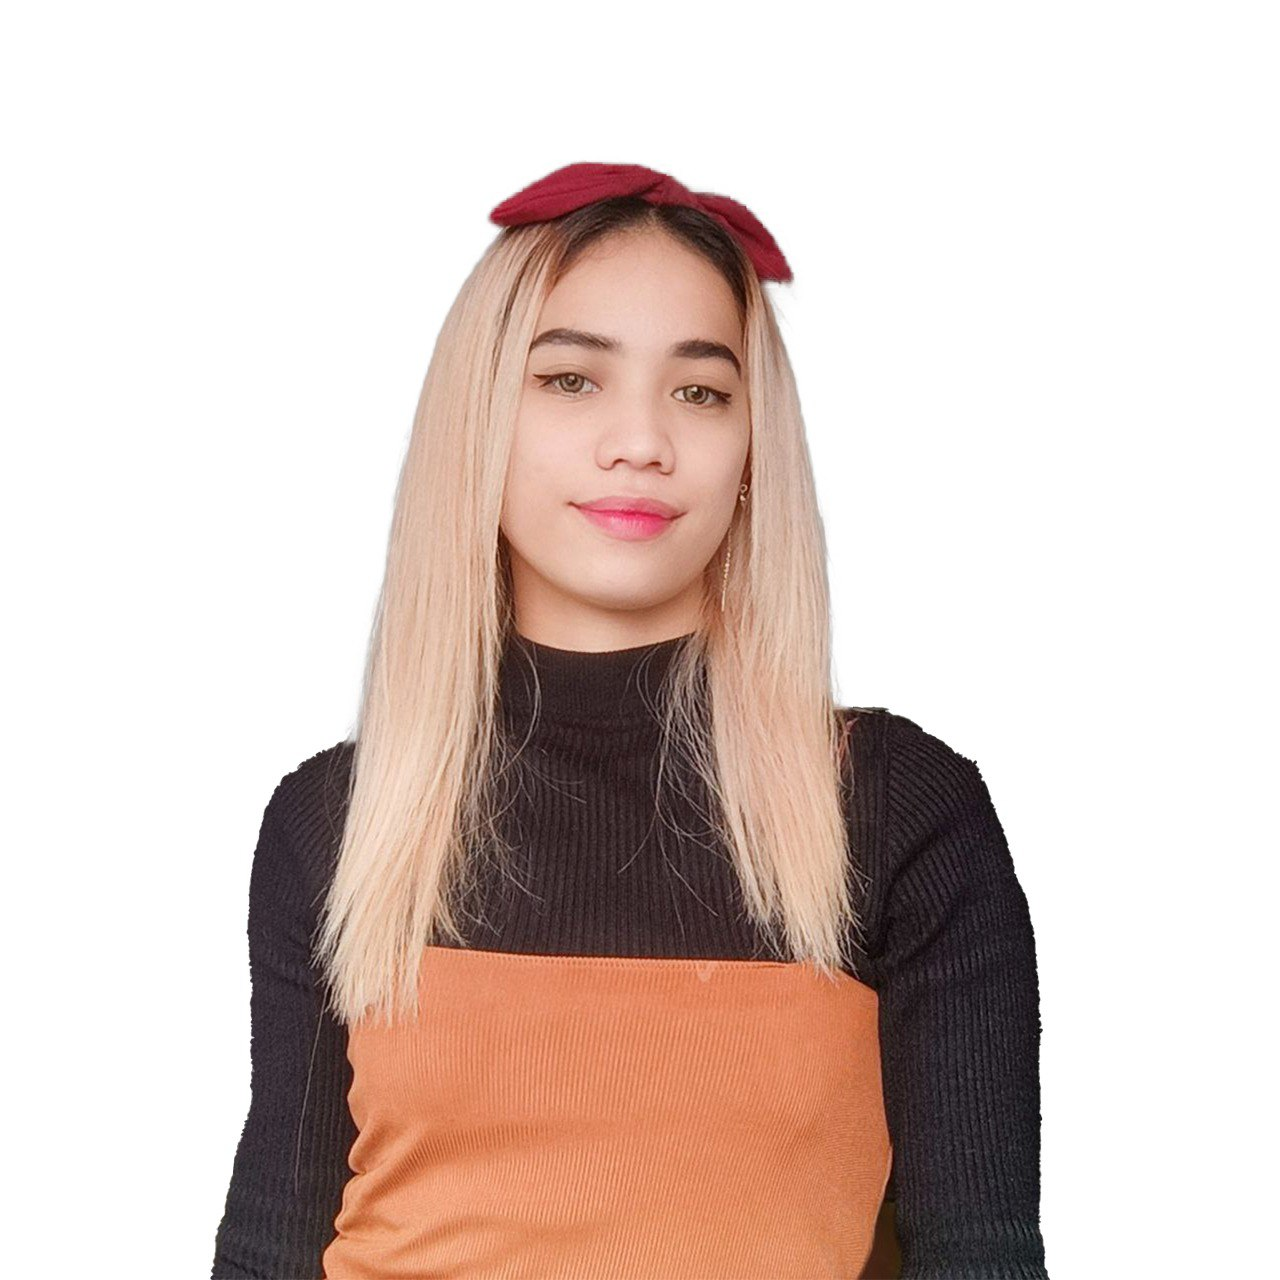
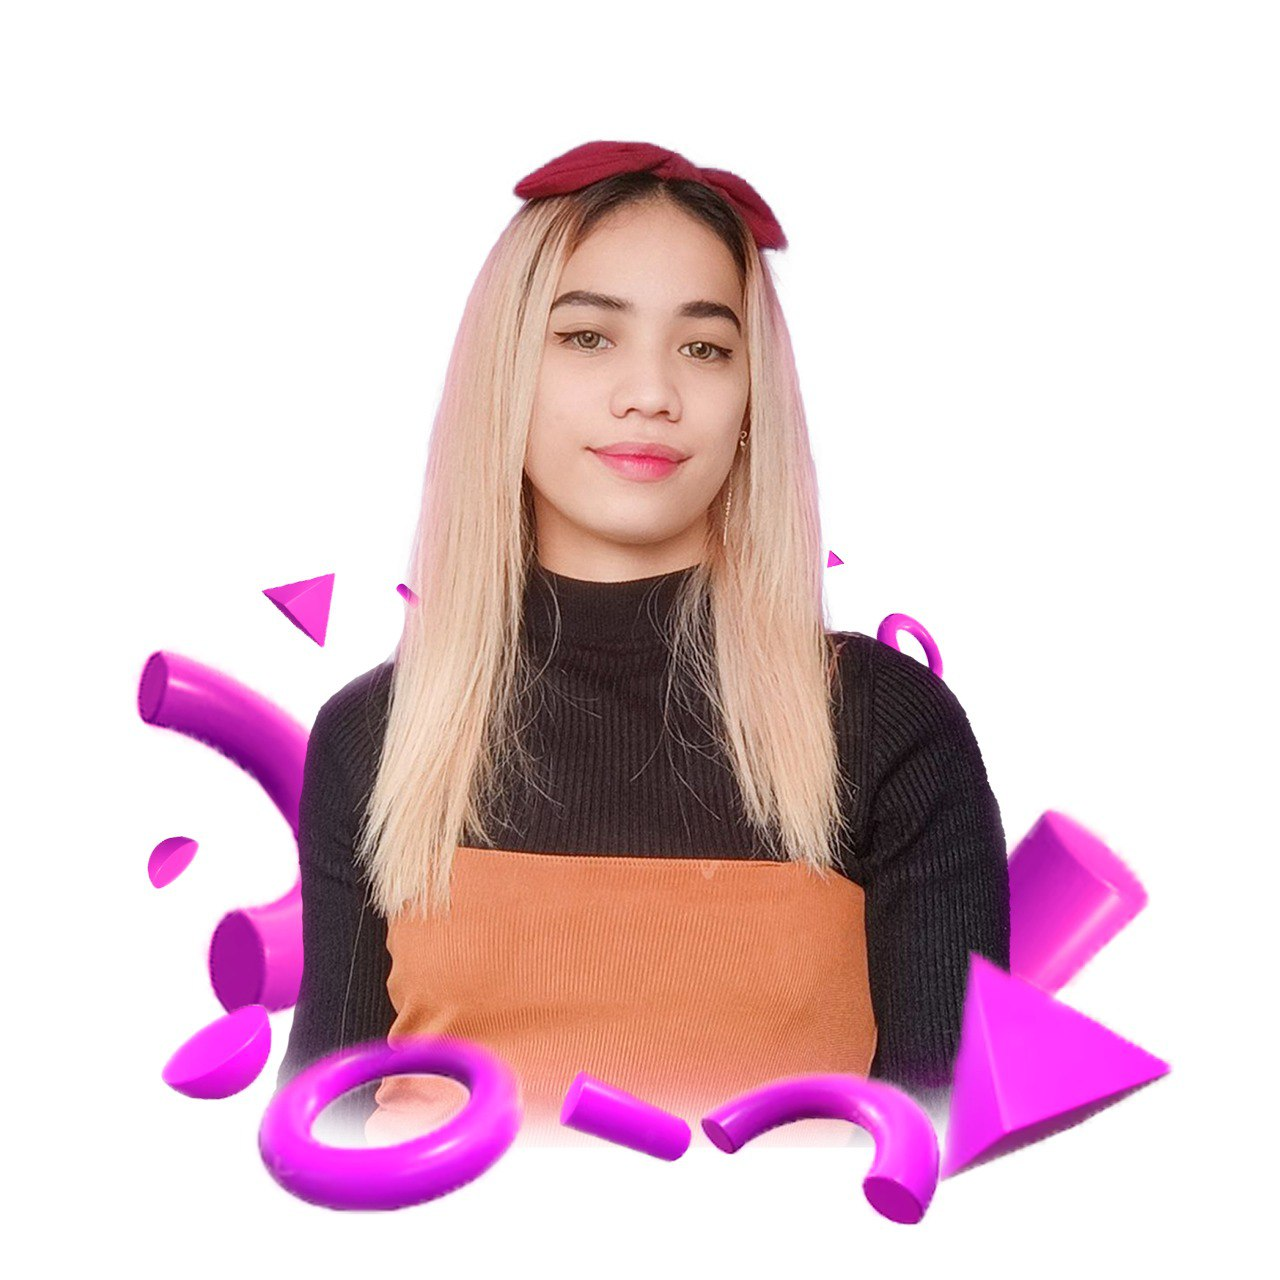
new img

diff --git a/index.html b/index.html
@@ -85,7 +85,7 @@
                 <a href="https://drive.google.com/file/d/1Bb8o8WRVDGHuYrkrnG7r5HkS6wwVYjy1/view?usp=sharing" download class="btn btn-primary">Download Resume</a>
             </div>
             <div class="col-lg-6">
-                <img src="img/ana_profile.jpg" class="img-fluid">
+                <img src="img/ana_profile1.jpg" class="img-fluid">
             </div>
         </div>
     </div>
